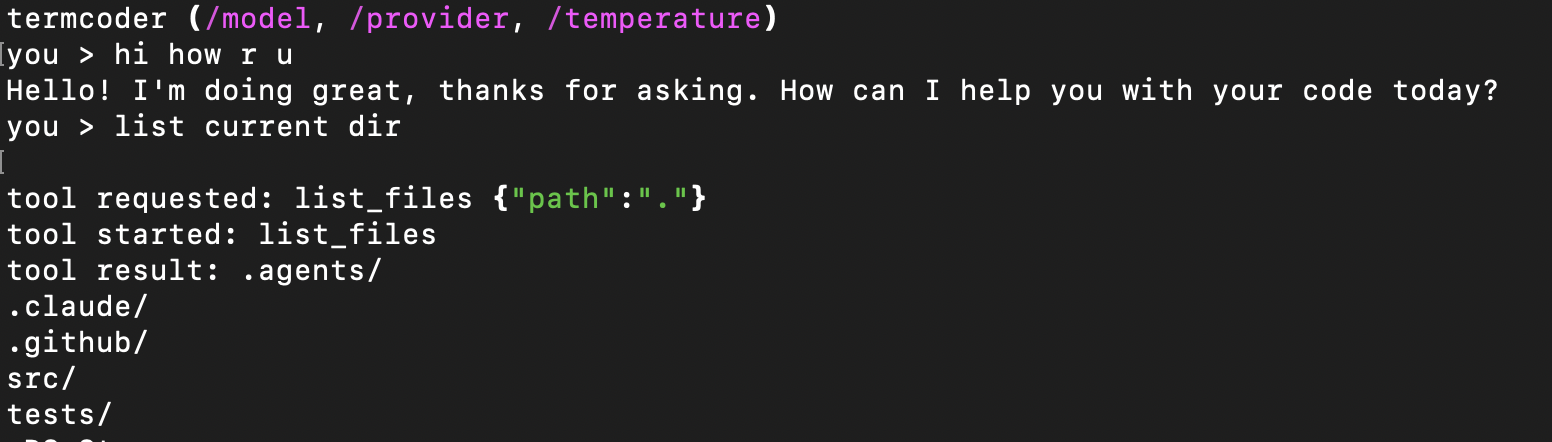
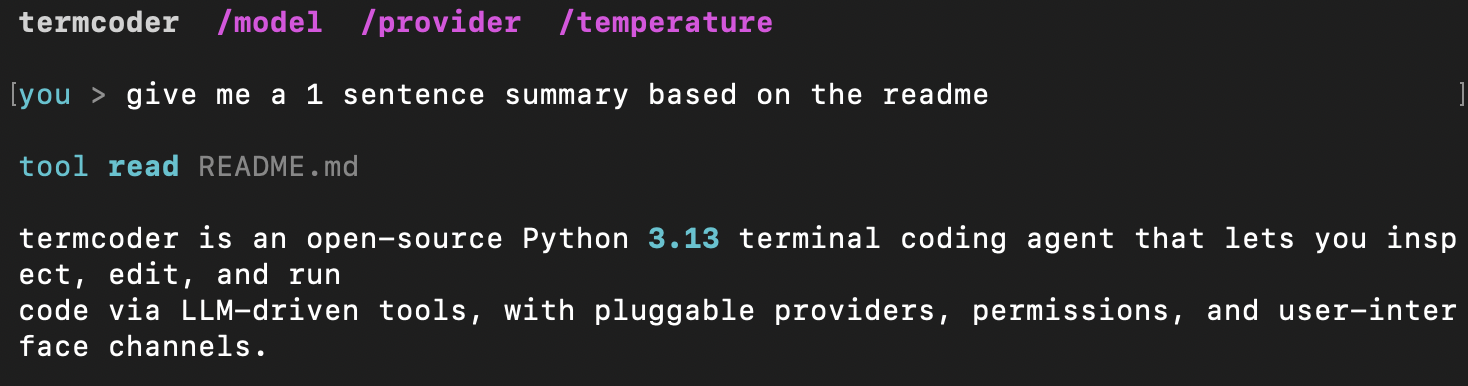
fix: use termcoder home for user config

diff --git a/tests/unit/test_config.py b/tests/unit/test_config.py
@@ -9,7 +9,13 @@ from pathlib import Path
 
 import pytest
 
-from termcoder.config import Config, ConfigError, load_config, save_setting
+from termcoder.config import (
+    Config,
+    ConfigError,
+    default_user_config_path,
+    load_config,
+    save_setting,
+)
 
 
 def _write(path: Path, body: str) -> None:
@@ -20,6 +26,14 @@ def _write(path: Path, body: str) -> None:
 def test_defaults_when_no_files_present(tmp_path: Path) -> None:
     config = load_config(cwd=tmp_path, user_config_path=tmp_path / "missing.toml")
     assert config == Config()
+
+
+def test_default_user_config_path_uses_termcoder_home(
+    tmp_path: Path, monkeypatch: pytest.MonkeyPatch
+) -> None:
+    monkeypatch.setattr(Path, "home", lambda: tmp_path)
+
+    assert default_user_config_path() == tmp_path / ".termcoder" / "config.toml"
 
 
 def test_user_config_overrides_defaults(tmp_path: Path) -> None:

diff --git a/src/termcoder/config.py b/src/termcoder/config.py
@@ -12,8 +12,6 @@ from dataclasses import dataclass
 from pathlib import Path
 from typing import Any, Literal
 
-import platformdirs
-
 from termcoder.errors import TermcoderError
 
 type TomlScalar = str | int | float | bool
@@ -64,7 +62,7 @@ def load_config(
 
 
 def default_user_config_path() -> Path:
-    return Path(platformdirs.user_config_dir("termcoder")) / "config.toml"
+    return Path.home() / ".termcoder" / "config.toml"
 
 
 def save_setting(key: str, value: TomlScalar, *, path: Path) -> None:

diff --git a/README.md b/README.md
@@ -21,8 +21,6 @@ It is also a readable implementation of a coding-agent harness. Providers, tools
 commands, skills, permissions, and channels are kept separate so the system can
 be understood and extended without digging through a large framework.
 
-## Screenshot
-
 <p align="center">
   <img src=".github/screenshot.png" alt="termcoder terminal session" width="820" />
 </p>
@@ -63,9 +61,9 @@ OpenAI-compatible providers can be used by setting `OPENAI_BASE_URL`.
 ## Configuration
 
 Configuration is loaded from built-in defaults, then
-`~/.config/termcoder/config.toml`, then `.termcoder.toml` in the current
-project. Project settings override user settings. Secrets stay in environment
-variables.
+`~/.termcoder/config.toml`, then `.termcoder.toml` in the current working
+directory. Local settings override user settings. Secrets are read from
+environment variables.
 
 ```toml
 provider = "openai"

diff --git a/AGENTS.md b/AGENTS.md
@@ -35,7 +35,7 @@ Two things the loop produces that everything else consumes: `AgentEvent`s (the s
 
 The provider seam **must** support a hand-written `FakeProvider` for tests. Design the interface around that constraint, not around any specific vendor's wire format or SDK shape — most tests run against the fake with no network and no API key.
 
-Configuration loads from env (`OPENAI_API_KEY`, `OPENAI_BASE_URL`, `ANTHROPIC_API_KEY`) for secrets and from TOML for settings, with precedence `.termcoder.toml` (project) > `~/.config/termcoder/config.toml` (user) > built-in defaults.
+Configuration loads from env (`OPENAI_API_KEY`, `OPENAI_BASE_URL`, `ANTHROPIC_API_KEY`) for secrets and from TOML for settings, with precedence `.termcoder.toml` (project) > `~/.termcoder/config.toml` (user) > built-in defaults.
 
 ## Code style and conventions
 
